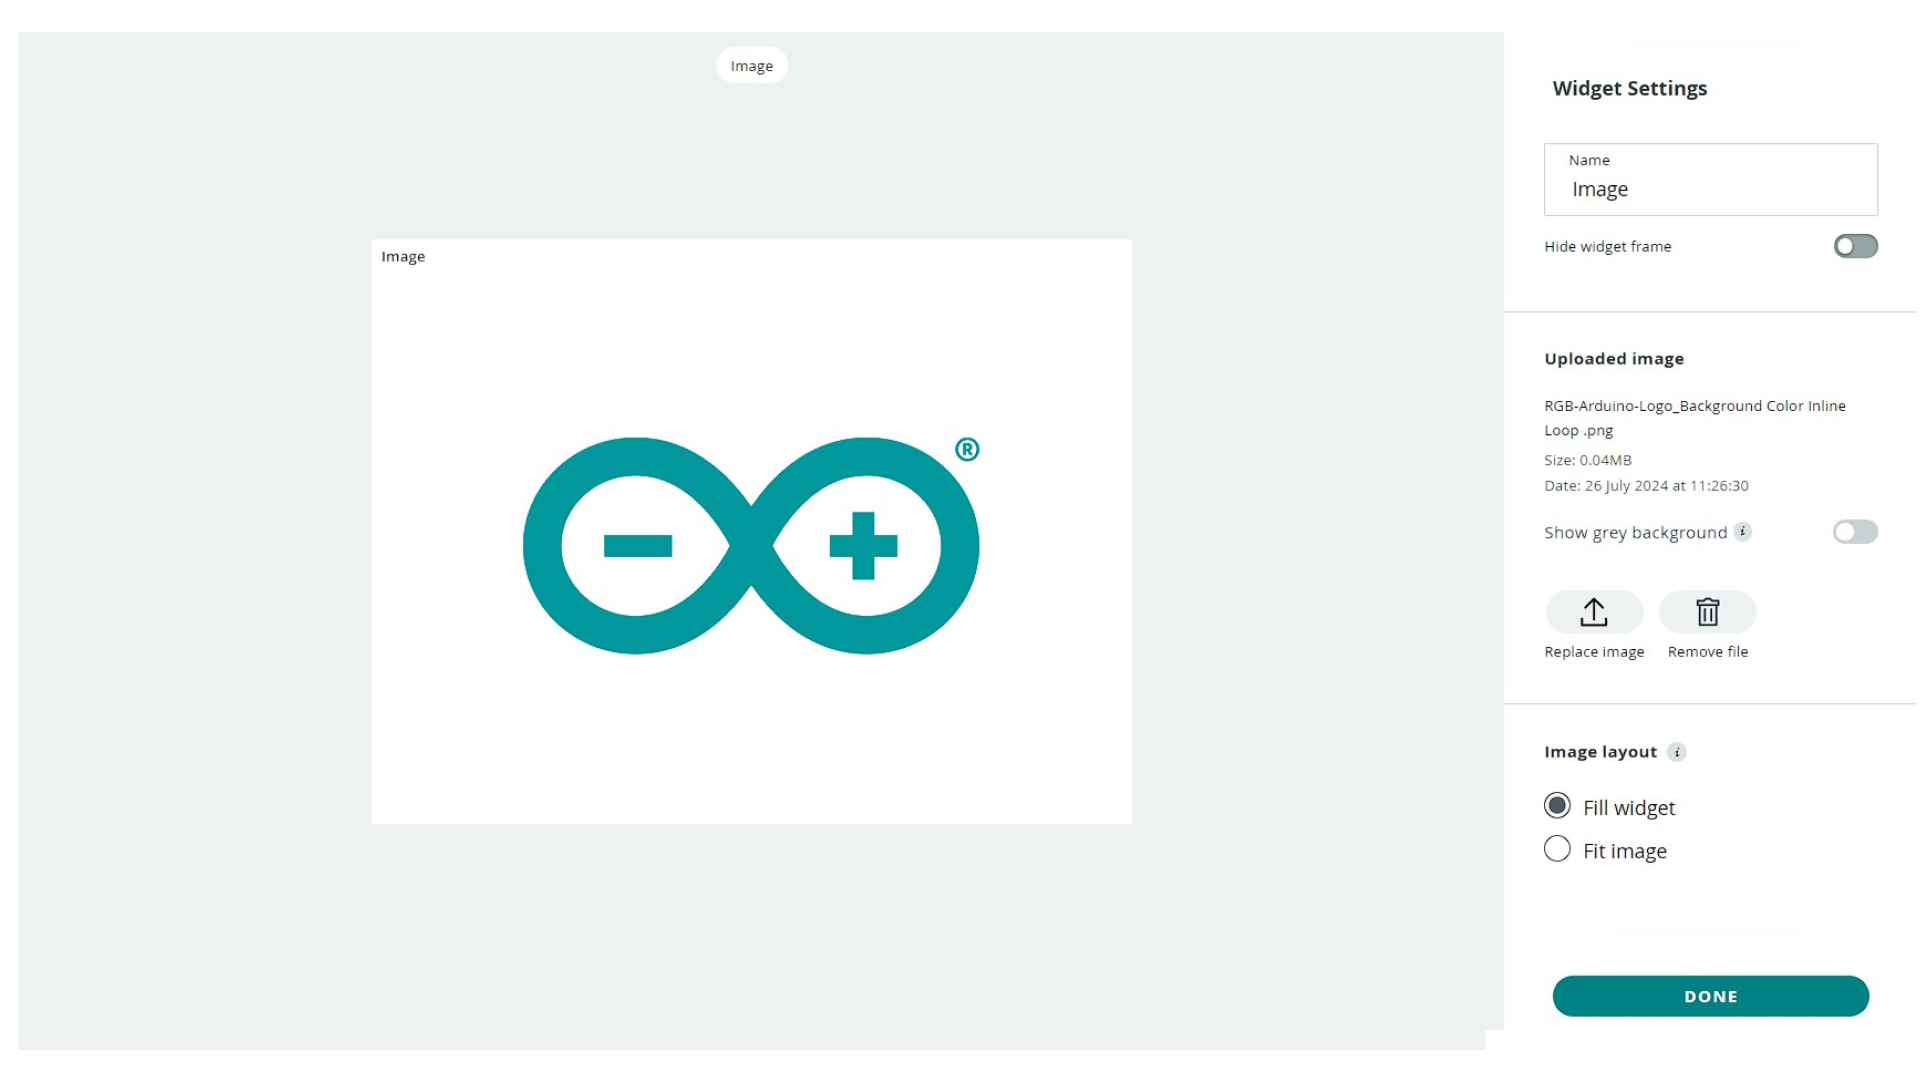
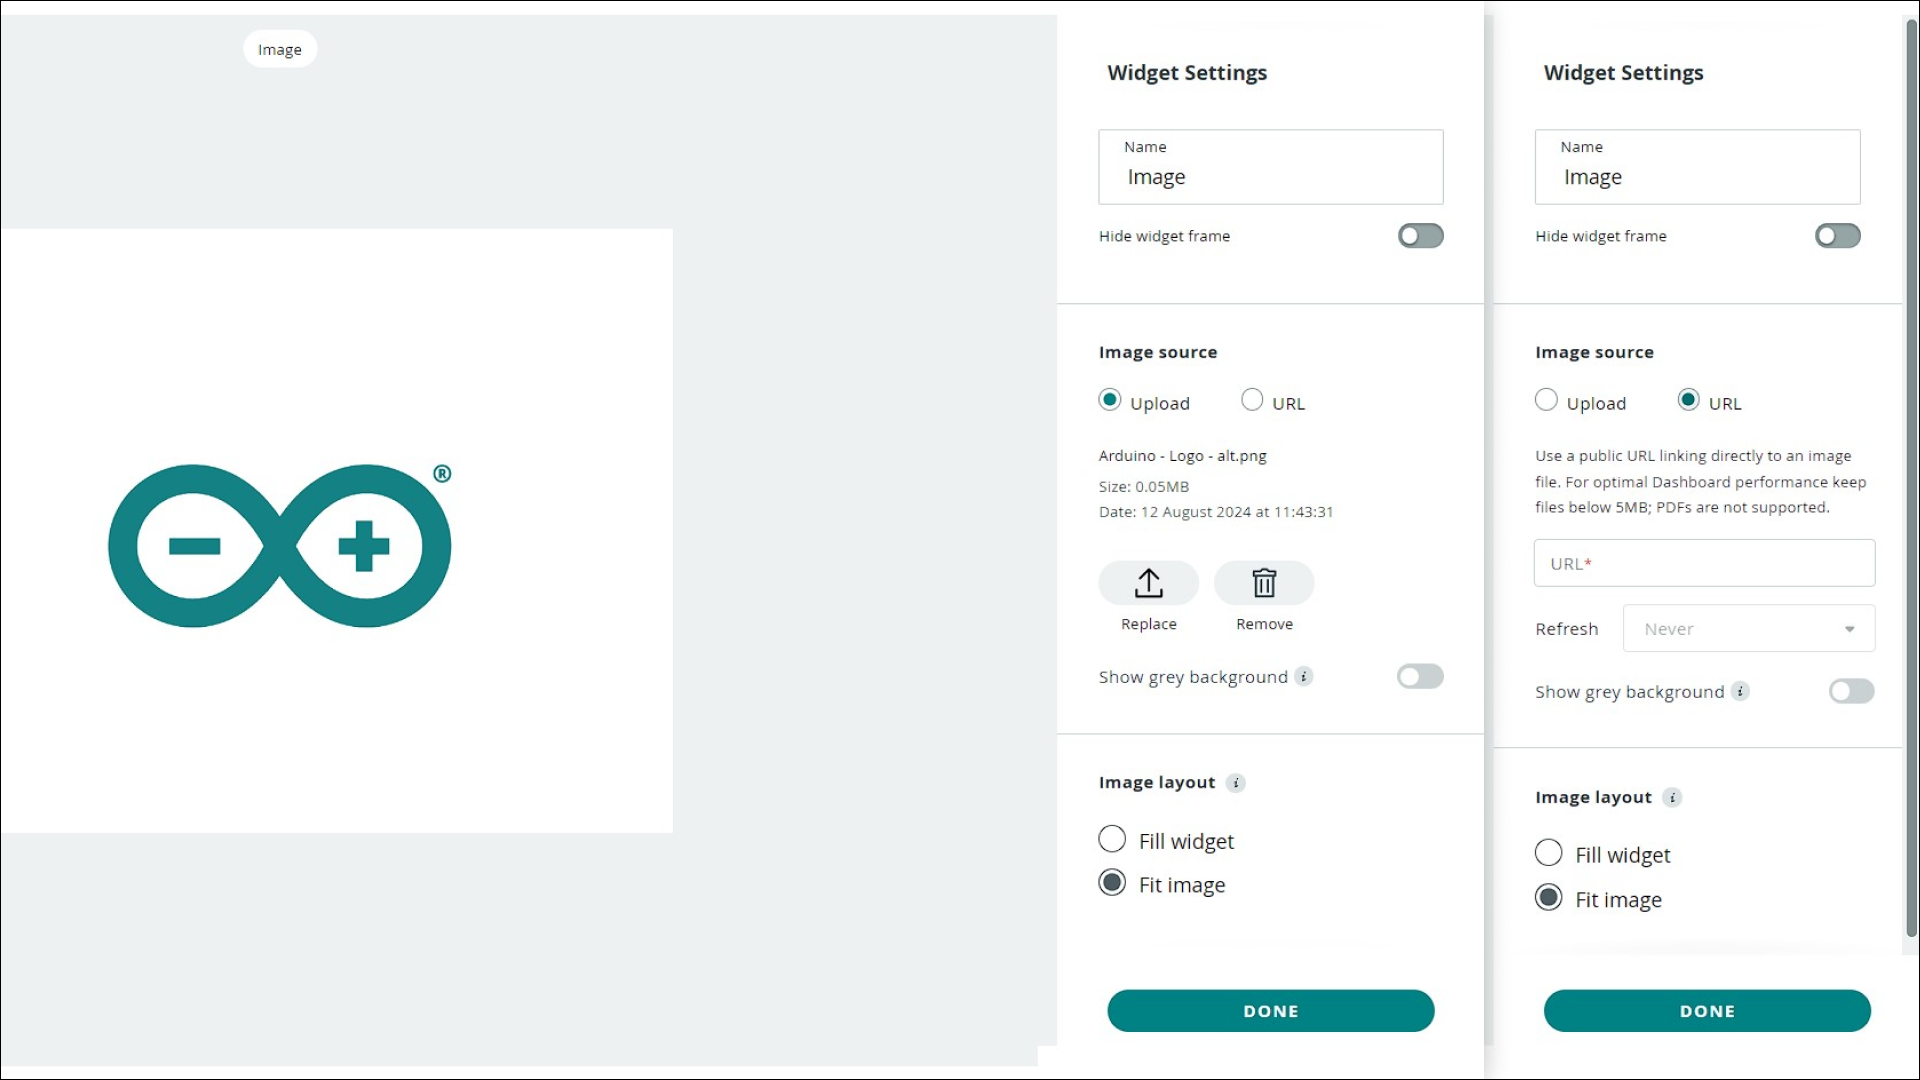
Updated content

diff --git a/content/arduino-cloud/03.cloud-interface/03.dashboard-widgets/dashboard-widgets.md b/content/arduino-cloud/03.cloud-interface/03.dashboard-widgets/dashboard-widgets.md
@@ -451,4 +451,4 @@ if(valueDropDown == "string"){
 
 ![Image widget](assets/widget-image.png)
 
-Use the image widget to put a JPG, PNG or WEBP image on your dashboard! The image can be made to fill the widget frame or to fit within the widget frame. A grey background can be added to the widget to help with visibility issues for PNGs with transparent backgrounds.
+Use the image widget to put a JPG, PNG or WEBP image on your dashboard! If you instead want to use an image URL, then chose the URL option under image source. Keep in mind the URL needs to be a HTTPS URL and not a HTTP URL. It is also possible to use local addresses. If you are using the URL option you can add a refresh frequency to the image widget, enabling the widget to function as a video or moving image. The image will then update  The image can be made to fill the widget frame or to fit within the widget frame. A grey background can be added to the widget to help with visibility issues for PNGs with transparent backgrounds.
